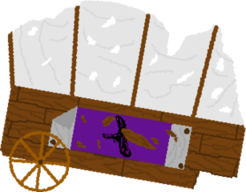
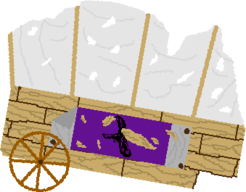
stolen mail quest

diff --git a/main.js b/main.js
@@ -1642,7 +1642,7 @@ class LootChest extends Thing {
 		this.disappearAfterOpened = properties.disappearAfterOpened; // whether it should hide straight after being looted
 	}
 	
-	loot (arrayIndex) {
+	openLoot (arrayIndex) {
 		Dom.loot.page(this.name, this.loot, this.lootQuantities, this.inventorySpace);
 		Dom.loot.currentId = "c"+arrayIndex;
 		// "c"+i is a string that allows the loot menu to be identified - c means enemy, and arrayIndex is the index of the enemy in Game.chests
@@ -1947,8 +1947,10 @@ Game.loadArea = function (areaName, destination) {
 		this.villagers = [];
 		if(Areas[areaName].villagers !== undefined) {
 			for(var i = 0; i < Areas[areaName].villagers.length; i++) {
-				Areas[areaName].villagers[i].map = map;
-				this.villagers.push(new Villager(Areas[areaName].villagers[i]));
+				if (this.canBeShown(Areas[areaName].villagers[i])) { // check if NPC should be shown
+					Areas[areaName].villagers[i].map = map;
+					this.villagers.push(new Villager(Areas[areaName].villagers[i]));
+				}
 			}
 		}
 		
@@ -1956,8 +1958,10 @@ Game.loadArea = function (areaName, destination) {
 		this.characters = [];
 		if(Areas[areaName].characters !== undefined) {
 			for(var i = 0; i < Areas[areaName].characters.length; i++) {
-				Areas[areaName].characters[i].map = map;
-				this.characters.push(new Thing(Areas[areaName].characters[i]));
+				if (this.canBeShown(Areas[areaName].characters[i])) { // check if NPC should be shown
+					Areas[areaName].characters[i].map = map;
+					this.characters.push(new Thing(Areas[areaName].characters[i]));
+				}
 			}
 		}
 		
@@ -1976,8 +1980,10 @@ Game.loadArea = function (areaName, destination) {
 		this.identifiers = [];
 		if(Areas[areaName].identifiers !== undefined) {
 			for(var i = 0; i < Areas[areaName].identifiers.length; i++) {
-				Areas[areaName].identifiers[i].map = map;
-				this.identifiers.push(new Character(Areas[areaName].identifiers[i]));
+				if (this.canBeShown(Areas[areaName].identifiers[i])) { // check if NPC should be shown
+					Areas[areaName].identifiers[i].map = map;
+					this.identifiers.push(new Character(Areas[areaName].identifiers[i]));
+				}
 			}
 		}
 		
@@ -1985,8 +1991,10 @@ Game.loadArea = function (areaName, destination) {
 		this.dummies = [];
 		if(Areas[areaName].dummies !== undefined) {
 			for(var i = 0; i < Areas[areaName].dummies.length; i++) {
-				Areas[areaName].dummies[i].map = map;
-				this.dummies.push(new Dummy(Areas[areaName].dummies[i]));
+				if (this.canBeShown(Areas[areaName].dummies[i])) { // check if NPC should be shown
+					Areas[areaName].dummies[i].map = map;
+					this.dummies.push(new Dummy(Areas[areaName].dummies[i]));
+				}
 			}
 		}
 		
@@ -1994,8 +2002,10 @@ Game.loadArea = function (areaName, destination) {
 		this.enemies = [];
 		if(Areas[areaName].enemies !== undefined) {
 			for(var i = 0; i < Areas[areaName].enemies.length; i++) {
-				Areas[areaName].enemies[i].map = map;
-				this.enemies.push(new Enemy(Areas[areaName].enemies[i]));
+				if (this.canBeShown(Areas[areaName].enemies[i])) { // check if NPC should be shown
+					Areas[areaName].enemies[i].map = map;
+					this.enemies.push(new Enemy(Areas[areaName].enemies[i]));
+				}
 			}
 		}
 		
@@ -2003,8 +2013,10 @@ Game.loadArea = function (areaName, destination) {
 		this.chests = [];
 		if(Areas[areaName].chests !== undefined) {
 			for(var i = 0; i < Areas[areaName].chests.length; i++) {
-				Areas[areaName].chests[i].map = map;
-				this.chests.push(new Enemy(Areas[areaName].chests[i]));
+				if (this.canBeShown(Areas[areaName].chests[i])) { // check if NPC should be shown
+					Areas[areaName].chests[i].map = map;
+					this.chests.push(new LootChest(Areas[areaName].chests[i]));
+				}
 			}
 		}
 		
@@ -2034,11 +2046,6 @@ Game.loadArea = function (areaName, destination) {
 		// music
 		// it is checked if the user has selected for music to be played in the settings within the Game.playMusic function
 		this.playMusic();
-		
-		// purge the chat (if there is any to purge)
-		if (Dom.chat.contents.length > 0) {
-			Dom.chat.purge(false);
-		}
 		
 		// init game (if it hasn't been done so already)
 		if (this.hero === undefined) {
@@ -2081,7 +2088,7 @@ Game.init = function () {
 	this.playingMusic = null;
 	
 	// list of basic (no extra operations to be done) things to be rendered (in order)
-	this.renderList = ["characters", "villagers", "NPCs", "identifiers", "dummies", "enemies"];
+	this.renderList = ["chests", "characters", "villagers", "NPCs", "identifiers", "dummies", "enemies"];
 	// then player, then projectiles (in order they were shot)
 	
 	// create the player at its start x and y positions
@@ -2498,6 +2505,7 @@ Game.update = function (delta) {
 			this.villagers[i].update(delta);
 		}
     }
+	
 	// update enemies
 	for(var i = 0; i < this.enemies.length; i++) {
 		if (!this.enemies[i].respawning) { // check enemy is not dead
@@ -2511,6 +2519,13 @@ Game.update = function (delta) {
 				// the loot menu closes when the area changes anyway, so this will always work
 				// Dom.loot.currentId is only ever used in main, in the function Game.lootClosed() (called by index.html)
 			}
+		}
+    }
+	
+	// check collision with loot chests
+	for(var i = 0; i < this.chests.length; i++) {
+		if (this.hero.isTouching(this.chests[i]) && this.chests[i].loot !== null && Dom.currentlyDisplayed === "") { // player is touching chest, chest can be looted, and DOM isn't occupied
+			this.chests[i].openLoot(i);
 		}
     }
 	
@@ -2604,7 +2619,17 @@ Game.lootClosed = function () {
 		Game.enemies[arrayIndex].loot = null;
 		Game.enemies[arrayIndex].lootQuantities = null;
 	}
-	// TBD chests when they are made
+	else if (Dom.loot.currentId[0] === "c") {
+		// chest loot menu closed
+		let arrayIndex = Dom.loot.currentId.substr(1);
+		if (Game.chests[arrayIndex].disappearAfterOpened) {
+			Game.chests.splice(arrayIndex, 1);
+		}
+		else {
+			Game.chests[arrayIndex].loot = null;
+			Game.chests[arrayIndex].lootQuantities = null;
+		}
+	}
 	else {
 		console.error("Dom.loot.currentId cannot be understood: " + Dom.loot.currentId);
 	}

diff --git a/areadata.js b/areadata.js
@@ -205,6 +205,19 @@ var Areas = {
 			},
 		],
 		
+		chests: [
+			/*{
+				x: 1690,
+				y: 290,
+				image: "cart",
+				name: "Loot Chest-Cart",
+				loot: [Items.bow[2]],
+				lootQuantities: [1],
+				inventorySpace: 8,
+				disappearAfterOpened: true,
+			},*/
+		],
+		
 		villagers: [
 			/*{
 				// out of date
@@ -369,6 +382,14 @@ var Areas = {
 						quest: Quests.eaglecrestLoggingCamp[3], 
 						role: "finish"
 					},
+					{
+						quest: Quests.eaglecrestLoggingCamp[4], 
+						role: "start"
+					},
+					{
+						quest: Quests.eaglecrestLoggingCamp[4], 
+						role: "finish"
+					},
 				],
 				chat: {
 					questProgress: "Get on with your work!",
@@ -407,7 +428,7 @@ var Areas = {
 				},
 			},
 			{
-				x: 1176,
+				x: 1166,
 				y: 300,
 				image: "mailman",
 				name: "Eaglecrest Mailman",
@@ -432,7 +453,7 @@ var Areas = {
 					inventoryFull: "I'm not sure you have any space to hold this.",
 				},
 				canBeShown: function () {
-					return (Dom.quests.activeQuestArray.includes("Retrieval of Logs") || Dom.quests.activeQuestArray.includes("Making Yourself Useful")) && !Dom.quests.completedQuestArray.includes("Stolen Mail");
+					return (Dom.quests.activeQuestArray.includes("Retrieval of Logs") || Dom.quests.activeQuestArray.includes("Making Yourself Useful") || Dom.quests.activeQuestArray.includes("Mail Gone Astray")) && !Dom.quests.completedQuestArray.includes("Mail Gone Astray");
 				},
 			},
 		],
@@ -606,6 +627,7 @@ var Areas = {
 				"fireGoblin",
 				"fire",
 				"goblinCorpse",
+				"mailcart",
 			],
 			
 			addresses: [
@@ -618,6 +640,7 @@ var Areas = {
 				"./assets/enemies/goblinPyromancer.png",
 				"./assets/projectiles/m.png",
 				"./assets/corpses/deadGoblin.png",
+				"./assets/objects/cartDestroyed.png",
 			],
 		},
 		
@@ -641,9 +664,6 @@ var Areas = {
 			},
 		],
 		
-		NPCs: [
-		],
-		
 		characters: [
 			/*{
 				x: 2290,
@@ -654,7 +674,20 @@ var Areas = {
 			},*/
 		],
 		
-		villagers: [
+		chests: [
+			{
+				x: 1140,
+				y: 905,
+				image: "mailcart",
+				name: "Mail Cart",
+				loot: [Items.item[7]],
+				lootQuantities: [1],
+				inventorySpace: 8,
+				disappearAfterOpened: false,
+				canBeShown: function () {
+					return (Dom.quests.activeQuestArray.includes("Making Yourself Useful") || Dom.quests.activeQuestArray.includes("Mail Gone Astray"));
+				},
+			},
 		],
 		
 		enemies: [

diff --git a/questdata.js b/questdata.js
@@ -237,7 +237,7 @@ var Quests = {
 		
 		{
 			id: 5,
-			quest: "Stolen Mail",
+			quest: "Mail Gone Astray",
 			
 			startName: "Eaglecrest Mailman",
 			startChat: `Oh no - I was driving my mail cart through that boggy area to the east and came across a huge group of goblins! I had to abandon the cart and flee for my life, but I left a mail sack in the cart. Please, would you be able to try to find my missing mail sack?`,
